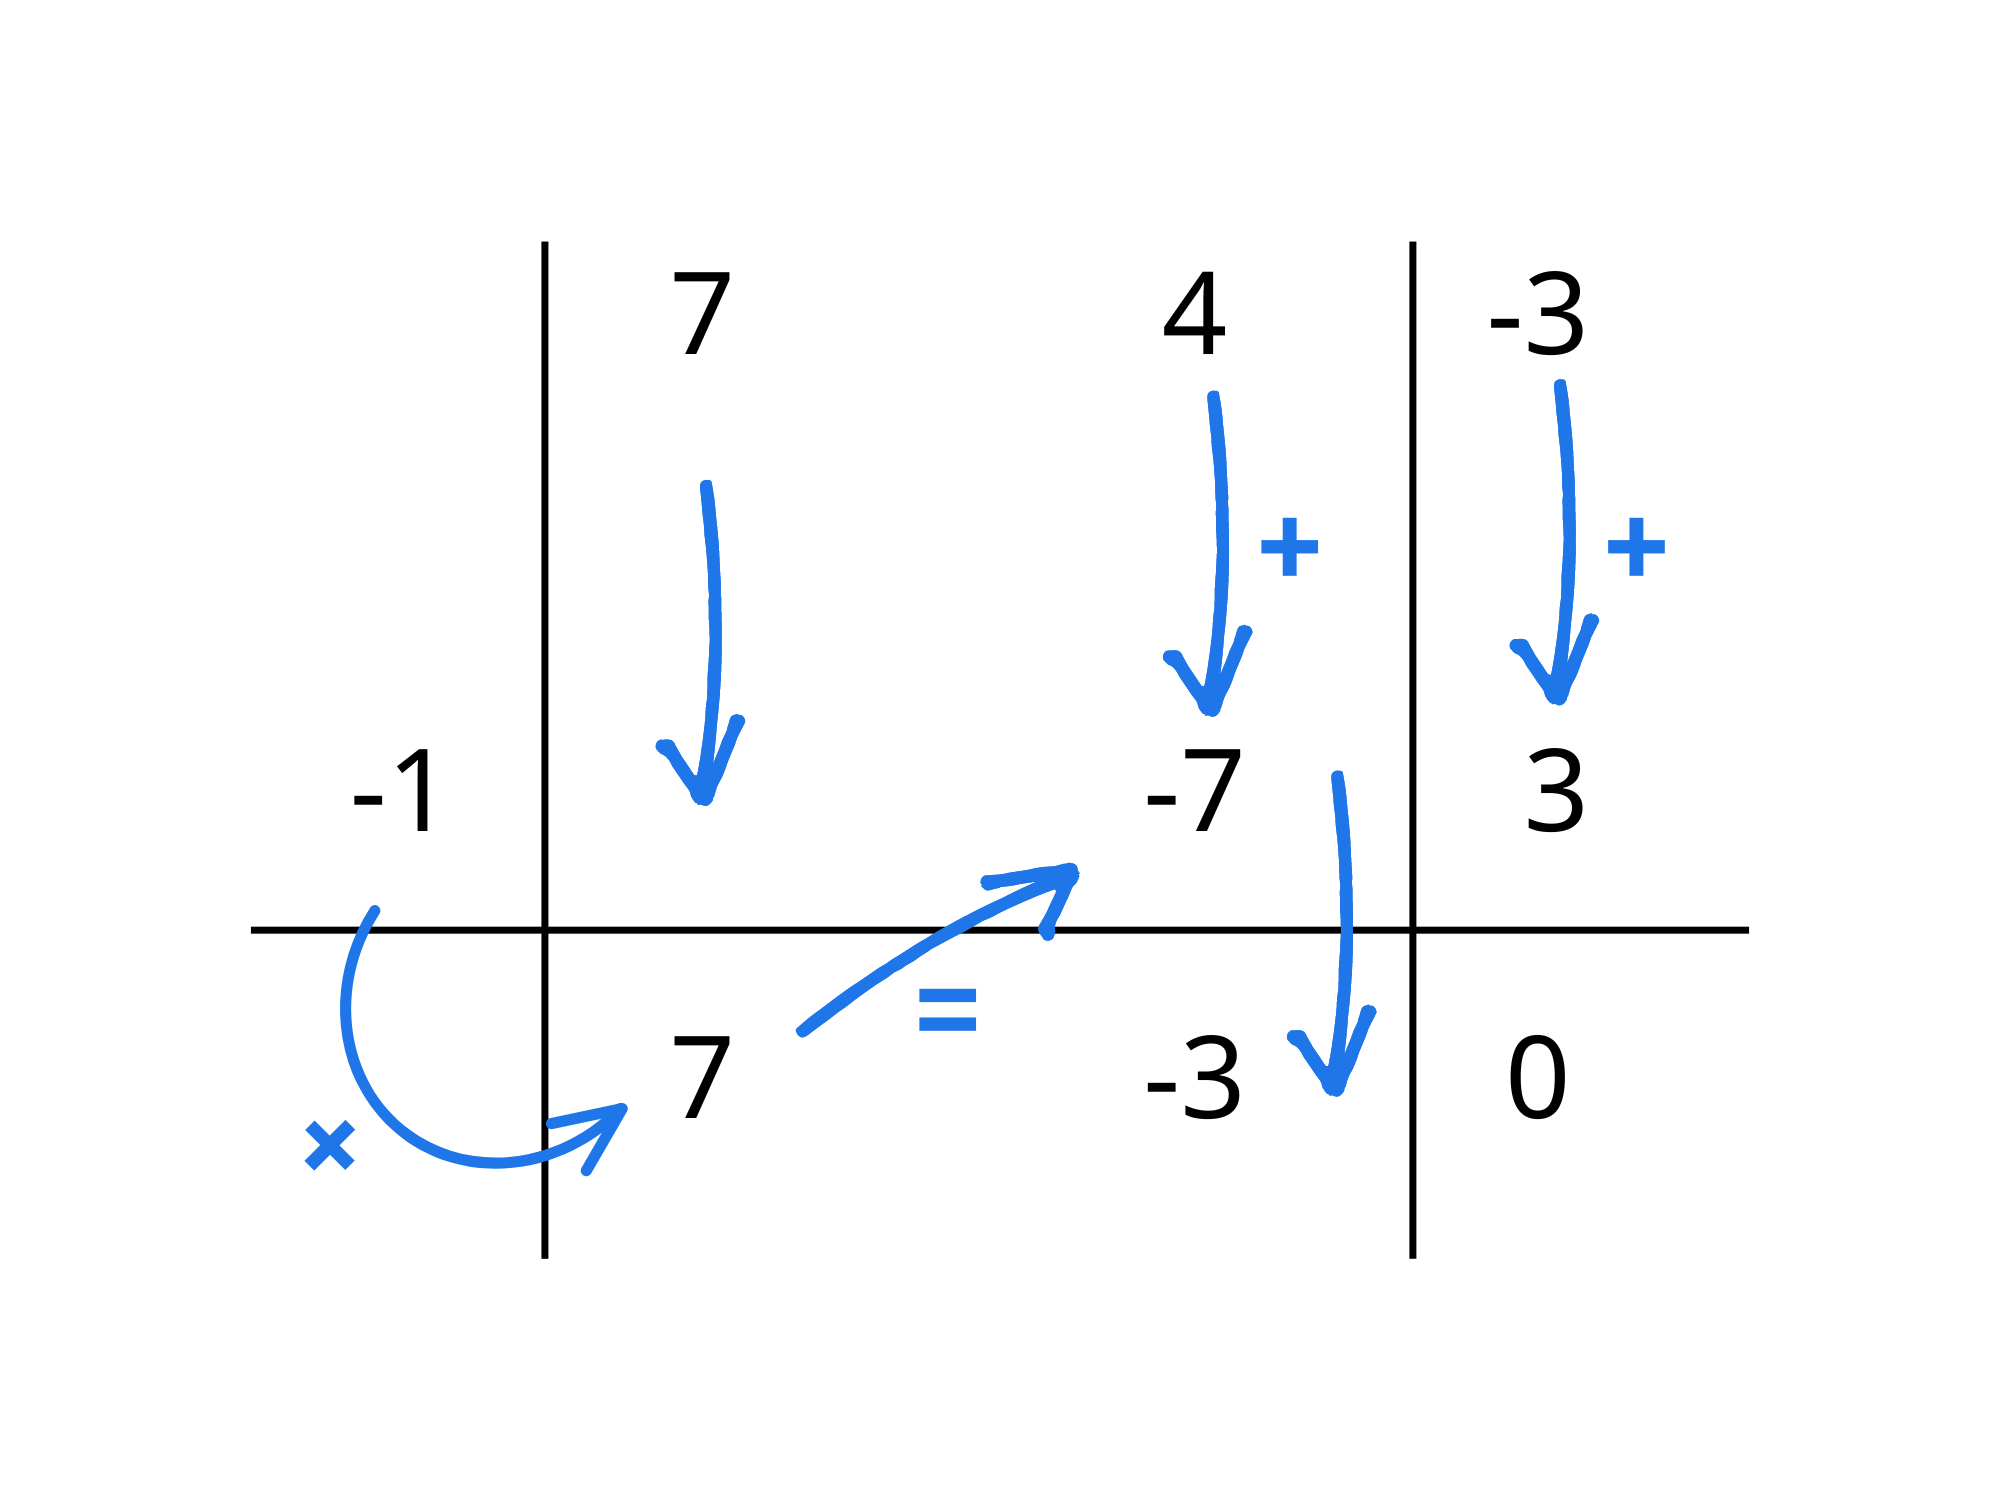
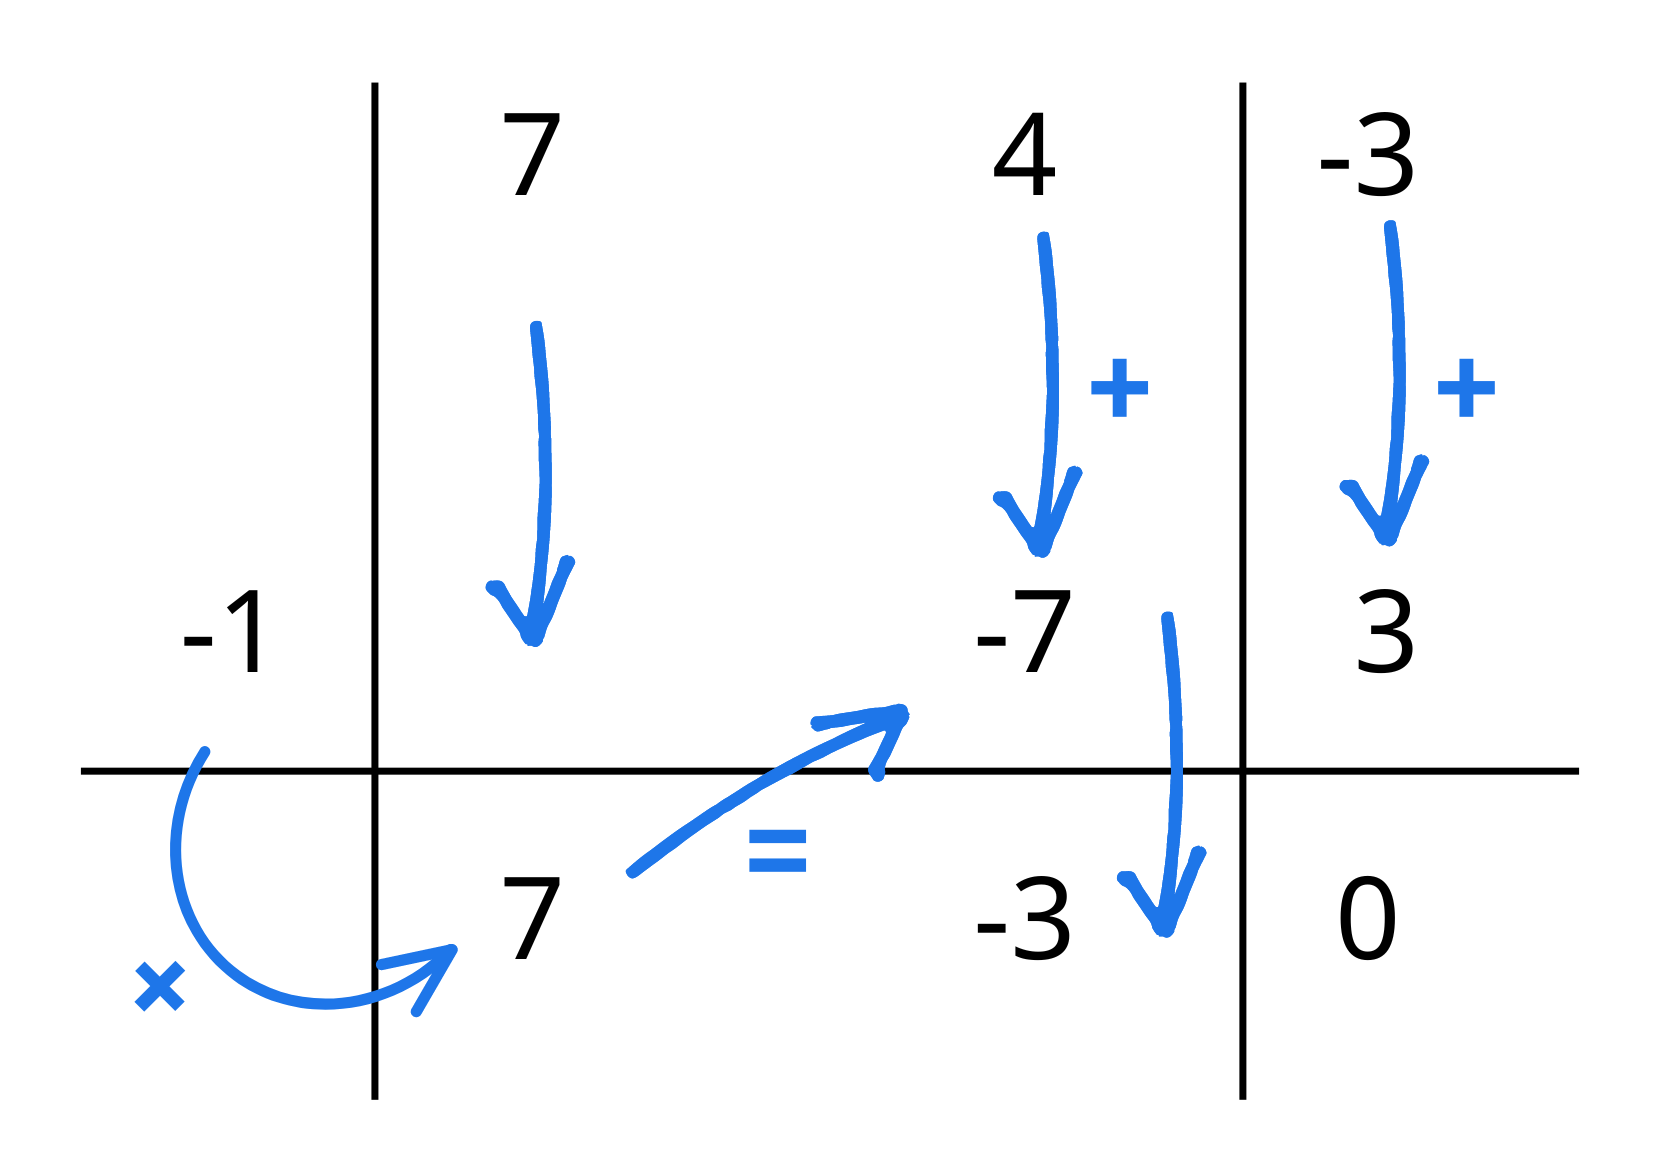
k

diff --git a/ruffini.html b/ruffini.html
@@ -1,0 +1,119 @@
+<!DOCTYPE html>
+<html lang="it">
+    <head>
+        <!-- Global site tag (gtag.js) - Google Analytics -->
+        <script async src="https://www.googletagmanager.com/gtag/js?id=G-2Z6FRX1VZF"></script>
+        <script>
+      window.dataLayer = window.dataLayer || [];
+      function gtag(){dataLayer.push(arguments);}
+      gtag('js', new Date());
+
+      gtag('config', 'G-2Z6FRX1VZF');
+    </script>
+    <!-- Titolo -->
+        <title>Theoremz | Ruffini</title>
+        <!-- Stylesheets -->
+        <link rel="stylesheet" href="funzioni.css">
+        <link rel="stylesheet" type="text/css" href="header.css">
+        <link rel="stylesheet" type="text/css" href="footer.css">
+        <link rel="stylesheet" type="text/css" href="general.css">
+        <meta charset="UTF-8">
+        <link rel="icon" href="favicon.png">
+        <meta name="description" content="Studia grauitamente le materie scientifiche su Theoremz! Qui troverai anche esercizi per allenarti.">
+        <meta name="viewport" contenent="width=device-width-initial-scale=1">
+    </head>
+    <meta name="viewport" content="width=device-width, initial-scale=1">
+     <!-- Including header and footer -->
+     <script src="//code.jquery.com/jquery-1.10.2.js"></script>
+     <script>
+       $(function () {
+         $("#header").load("header.html");
+         $("#footer").load("footer.html");
+       });
+     </script>
+         <script src="https://polyfill.io/v3/polyfill.min.js?features=es6"></script>
+         <div id="header"></div>
+         <section class="home">
+         <div class="welcome"> 
+        <h1 class="welcome1" >La regola di Ruffini</h1>
+        <h3 class="p1">Cos'è e come si usa.</h3>
+             </div>  
+             <!-- Mini-index -->
+    <div class="minimenu">
+<a href="#classif" class="mini-item" ><div class=""><p class="minitext">Classificazione</p></div></a>
+<a href="#classif2" class="mini-item" ><div class=""><p class="minitext">Studio</p></div></a>
+<a href="#classif3" class="mini-item" ><div class=""><p class="minitext">Iniettive</p></div></a>
+<a href="#classif4" class="mini-item" ><div class=""><p class="minitext">Suriettive</p></div></a>
+<a href="#classif5" class="mini-item" ><div class=""><p class="minitext">Biettive</p></div></a>
+<a href="#classif6" class="mini-item" ><div class=""><p class="minitext">Inverse</p></div></a>
+
+    </div>
+            <!-- Divider -->
+        <hr class="divider"></hr>  
+        <body>
+         <h2>Cos’è la regola di Ruffini?</h2>
+         <br>
+         <p>La <span class="blue">regola di Ruffini</span> è una tecnica di scomposizione dei polinomi ed è stata introdotta dal matematico<span class="blue">Paolo Ruffini</span>. Risulta utile in quanto riesce a scomporre polinomi non scomponibili con le altre tecniche che abbiamo visto in una lezione apposita <i>(<a href="index.html"><span class="link">qui</span></a> per accedervi)</i>.</p>
+         <br>
+         <p>Questo metodo di scomposizione si basa sul <span class="blue">Teorema di Ruffini</span>, il cui enunciato è <i>“Un polinomio è divisibile per un binomio del tipo \(x-a\) soltanto se scambiando la sua incognita con l’opposto del termine noto del divisore viene annullato”</i>.</p>
+         <br>
+         <p>In questa lezione ci limiteremo a spiegare come e quando applicare la regola e non dimostreremo il teorema in sé, chiarito questo possiamo procedere.</p>
+         <br>
+         <h2>Quando usare Ruffini</h2>
+         <br>
+         <p>Dato che usare la <span class="blue">regola di Ruffini</span> è il metodo più lento di scomporre un polinomio, consigliamo di provare prima tutte le altre tecniche di scomposizione. Quindi, se il polinomio è di grado inferire uguale al terzo molto probabilmente è scomponibile anche in altri modi.
+        </p>
+        <br>
+        <p>Se ci si trova davanti un polinomio di grado elevato e non si riesce a ricondurlo a gradi inferiori usando, ad esempio, <span class="blue">il raccoglimento totale</span>, allora è conveniente procedere con Ruffini in quanto è facile e sicuro.</p>
+        <br>
+        <h2>Come applicare Ruffini</h2>
+        <br>
+        <p>La prima cosa che bisogna fare con il nostro polinomio è trovare un numero che lo annulli, un numero che se sostituito all’incognita faccia venire \(0\).</p>
+        <br>
+        <p>Si potrebbero provare tutti i numeri reali ma fortunatamente sappiamo che deve per forza essere un divisore dell’ultimo termine del polinomio, quindi quello non moltiplicato per la nostra incognita.
+        </p>
+        <br>
+        <p class="bbk">Esempio:</p>
+        <br>
+        <p class="bbk">\(7x^2+4x-3 \longrightarrow \pm1 e \pm 3\) -proviamo le opzioni e scopriamo che \(-1\) è accettabile</p>
+        <br>
+        <p>Ora trovato il nostro numero, sappiamo che il nostro polinomio sarà divisibile per \(x\) più il reciproco di questo numero che in questo caso è \(1\).
+        </p>
+        <br>
+        <p>Potremmo dunque affermare che \((x+1) \cdot (...) = 7x^3+4x-3\)</p>
+        <br>
+        <p>Fatto questo non ci resta che svolgere la <span class="blue">divisione</span> e scoprire per quale polinomio si ottiene se si divide il primo per \(x+1\).</p>
+        <br>
+        <p>Per fare questo disegniamo una tabella, e scriviamo dopo la prima colonna, ordinati in base al grado, i coefficienti numerici dei termini del polinomio di partenza e l’ultimo coefficiente aldilà della seconda linea verticale:</p>
+        <br>
+        <img class="image" src="images/ruffini2.png" alt="Ruffini">
+        <br>
+        <p>Poi procediamo a scrivere il numero che annulla il polinomio a sinistra sopra la linea orizzontale e iniziamo a fare i calcoli:</p>
+        <br>
+        <img class="image" src="images/ruffini1.png" alt="Ruffini">
+        <br>
+        <p>Per svolgere i calcoli si segue questo procedimento: si parte dal primo coefficiente che abbiamo scritto in alto e lo si trascrive sotto la linea orizzontale, ora si svolge la moltiplicazione tra questo numero e il numero scritto a sinistra della linea verticale e il risultato lo si scrive sotto il secondo coefficiente, si somma il secondo coefficiente al risultato della moltiplicazione di prima e si scrive il risultato sotto la linea.</p>
+        <br>
+        <img class="image" src="images/ruffini.png" alt="Ruffini">
+        <br>
+        <p>Si ripete il procedimento fino all’ultimo coefficiente e eseguendo la somma di questo con il numero sottostante si ottiene \(0\) <i>(se tutto è stato fatto correttamente)</i>.</p>
+        <br>
+        <p>Il polinomio risultante avrà per coefficienti i numeri scritti sotto la linea orizzontale <i>(notare che i coefficienti sono uno in meno perché il risultante è di un grado inferiore al polinomio di partenza)</i>.
+        </p>
+        <br>
+        <p>Il risultato della nostra scomposizione sarà quindi \((x+1)(7x-3)\).</p>
+
+
+
+        </body>
+        </section>
+        <!-- Site footer -->
+        <div id="footer"></div>
+        <script src="custom.js"></script>
+        <!-- Including MathJax -->
+        <script type="text/javascript" async
+        src="https://cdnjs.cloudflare.com/ajax/libs/mathjax/2.7.7/MathJax.js?config=TeX-MML-AM_CHTML">
+    </script>
+    </body>
+            
+</html>

diff --git a/funzioni.html b/funzioni.html
@@ -2,16 +2,18 @@
 <html lang="it">
     <head>
         <!-- Global site tag (gtag.js) - Google Analytics -->
-<script async src="https://www.googletagmanager.com/gtag/js?id=G-2Z6FRX1VZF"></script>
-<script>
-  window.dataLayer = window.dataLayer || [];
-  function gtag(){dataLayer.push(arguments);}
-  gtag('js', new Date());
+        <script async src="https://www.googletagmanager.com/gtag/js?id=G-2Z6FRX1VZF"></script>
+        <script>
+      window.dataLayer = window.dataLayer || [];
+      function gtag(){dataLayer.push(arguments);}
+      gtag('js', new Date());
 
-  gtag('config', 'G-2Z6FRX1VZF');
-</script>
+      gtag('config', 'G-2Z6FRX1VZF');
+    </script>
+    <!-- Titolo -->
         <title>Theoremz | Funzioni</title>
-        <link rel="stylesheet" href="AS-style.css">
+        <!-- Stylesheets -->
+        <link rel="stylesheet" href="funzioni.css">
         <link rel="stylesheet" type="text/css" href="header.css">
         <link rel="stylesheet" type="text/css" href="footer.css">
         <link rel="stylesheet" type="text/css" href="general.css">
@@ -31,7 +33,6 @@
      </script>
          <script src="https://polyfill.io/v3/polyfill.min.js?features=es6"></script>
          <div id="header"></div>
-    <div class="the ">
         
       <section class="home">
 
@@ -40,6 +41,7 @@
                 <h1 class="welcome1" >Funzioni</h1>
                 <h3 class="p1">Di seguito analizzeremo le funzioni.</h3>
              </div>  
+             <!-- Mini-index -->
     <div class="minimenu">
 <a href="#classif" class="mini-item" ><div class=""><p class="minitext">Classificazione</p></div></a>
 <a href="#classif2" class="mini-item" ><div class=""><p class="minitext">Studio</p></div></a>
@@ -53,7 +55,7 @@
          <hr class="divider"></hr>  
       <body>
          <h2>Cos'è una funzione?</h2>
-<br>
+         <br>
          <p> <i>Una <span class="blue">funzione</span> è una corrispondenza (o legge) tra gli elementi di un insieme, <span class="blue">dominio</span>, e quelli di un altro insieme, il <span class="blue">codominio</span>. Ad ogni elemento del dominio non può essere associato più di un elemento del <span class="underlined">codominio</span>.</i> In una rappresentazione cartesiana di una funzione dai numeri reali a i numeri reali (con una sola variabile) il domino comprende i valori delle <span class="blue">ascisse</span>, mentre il codominio quelli delle <span class="blue">ordinate</span>.
          </p>
          <br>
@@ -70,9 +72,11 @@
          <br>
          <div class="funzioni">
          <img class='funzione' src="images/funzione.png" alt="funzione">
-         <img  id="classif" class='funzione' src="images/nonfunzione.png" alt="nonfunzione">
+         <img class='funzione' src="images/nonfunzione.png" alt="nonfunzione">
       </div>
-
+      <br id="classif">
+      <br>
+      <hr class="divider"></hr>  
 
          <h2>Classificazione delle funzioni</h2>
          <br>
@@ -98,7 +102,8 @@
          <br id="classif2">
          <p>\(y = 2x\)</p>
          <br>
-         
+         <br>
+         <hr class="divider"></hr>  
          
          <h2>Studio di funzione basilare</h2>
          <br>
@@ -192,6 +197,9 @@
          <p>grafico</p>
          <p>Finito, abbiamo studiato la nostra funzione!</p>
          <br>
+
+         <!-- Divider -->
+         <hr class="divider"></hr>  
          <h2>Funzioni iniettive, suriettive e biettive</h2>
          <br>
          <p>Nella come visto in precedenza, ogni funzione è rappresentabile tramite due insiemi e una freccia che mette in relazione i loro elementi.</p>
@@ -199,7 +207,8 @@
          <p id='classif3'>In molti casi è utile sapere se una funzione è iniettiva, suriettiva e biettiva. Ma cosa sono queste definizioni e cosa servono?</p>
          <br>
          
-         
+         <!-- Divider -->
+         <hr class="divider"></hr> 
          <h2>Funzioni iniettive
          </h2>
          <br>
@@ -210,7 +219,8 @@
       <img  id="classif" class='funzione' src="images/funzionei.png" alt="Funzione Iniettiva">
          <br id="classif4">
          <br>
-         
+         <!-- Divider -->
+         <hr class="divider"></hr>  
          
          <h2>Funzioni suriettive</h2>
          <br>
@@ -219,13 +229,17 @@
          <img  id="classif" class='funzione' src="images/funziones.png" alt="Funzione Suriettiva">
          <br id="classif5">
          <br>
-         
+          <!-- Divider -->
+         <hr class="divider"></hr>  
          <h2>Funzioni biettive</h2>
          <br> 
          <p><i>Una funzione si dice <span class="blue">biettiva</span> se è sia <span class="underlined">suriettiva</span> che <span class="underlined">iniettiva</span> allo stesso tempo. Quindi ogni elemento del <span class="underlined">dominio</span> è collegato a un elemento del <span class="underlined">codominio</span>.</i></p>
          <br>
-         <img  id="classif" class='funzione' src="images/funzioneb.png" alt="Funzione Biettiva">
-         <br>
+         <img class='funzione' src="images/funzioneb.png" alt="Funzione Biettiva">
+         <br id="classif">
+
+         <!-- Divider -->
+         <hr class="divider"></hr>  
          <h2>Funzione invertibile</h2>
          <br>
          <p>Una funzione è invertibile solo se è <span class="underlined">biettiva</span>.
@@ -242,7 +256,8 @@
          <img  id="classif" class='funzione' src="images/funzioneinversa.png" alt="Funzione Inversa">
          <br id="classif6">
          <br>
-         
+         <!-- Divider -->
+         <hr class="divider"></hr> 
          <h2>Come trovare una funzione inversa</h2>
          <br>
          <p>Per trovare una funzione inversa bisogna per prima cosa verificare se la funzione di partenza è sia <span class="underlined">iniettiva</span> che <span class="underlined">suriettiva</span> è quindi <span class="underlined">biunivoca</span>.</p>
@@ -261,22 +276,15 @@
          <br>
          <p>Ricordate che i valori di \(x\) per cui la funzione inversa è definita non sono sempre gli stessi della funzione di partenza, quindi ricordatevi di studiare il dominio di nuovo se necessario.
          </p>
-
-
-
-
-      
-         
-      </body>
-           </section>
-           <!-- Site footer -->
-           <div id="footer"></div>
+        </body>
+        </section>
+        <!-- Site footer -->
+        <div id="footer"></div>
         <script src="custom.js"></script>
         <!-- Including MathJax -->
         <script type="text/javascript" async
-  src="https://cdnjs.cloudflare.com/ajax/libs/mathjax/2.7.7/MathJax.js?config=TeX-MML-AM_CHTML">
-</script>
+        src="https://cdnjs.cloudflare.com/ajax/libs/mathjax/2.7.7/MathJax.js?config=TeX-MML-AM_CHTML">
+    </script>
     </body>
-    </div>
             
 </html>

diff --git a/funzioni.css b/funzioni.css
@@ -17,6 +17,9 @@ h2 {
   color: var(--pc);
   font-weight: bold;
 }
+.link {
+  color: var(--pc);
+}
 .underlined {
   text-decoration: underline var(--drkblue);
 }
@@ -61,7 +64,7 @@ h2 {
   padding-right: 50px;
   justify-self: center;
   margin-bottom: 10px;
-
+  margin-top: 100px;
   padding-top: 20px;
   padding-bottom: 20px;
   border-radius: 5px;
@@ -91,12 +94,6 @@ h2 {
 }
 .minitext {
   font-size: 10px;
-}
-.imgse {
-  display: block;
-  margin-left: auto;
-  margin-right: auto;
-  border-radius: 5px;
 }
 .funzione {
   max-height: 400px;
@@ -132,10 +129,6 @@ h2 {
 
 h3 {
   text-align: center;
-}
-.the {
-  position: relative;
-  top: 100px;
 }
 
 figure {

diff --git a/Matematica.html b/Matematica.html
@@ -68,14 +68,14 @@
               </div></a
             >
 
-            <a href="Analisi-semplice.html"
+            <a href="ruffini.html"
               ><div class="grid-element">
                 <div class="photo">
                   <img class="photo" src="#" />
                   <img class="level" src="images/easy.png" />
                   <img class="blob" src="images/bloblu.svg" />
                 </div>
-                <div class="text"><h3 class="p2">Parabole</h3></div>
+                <div class="text"><h3 class="p2">Regola di Ruffini</h3></div>
               </div></a
             >
 
